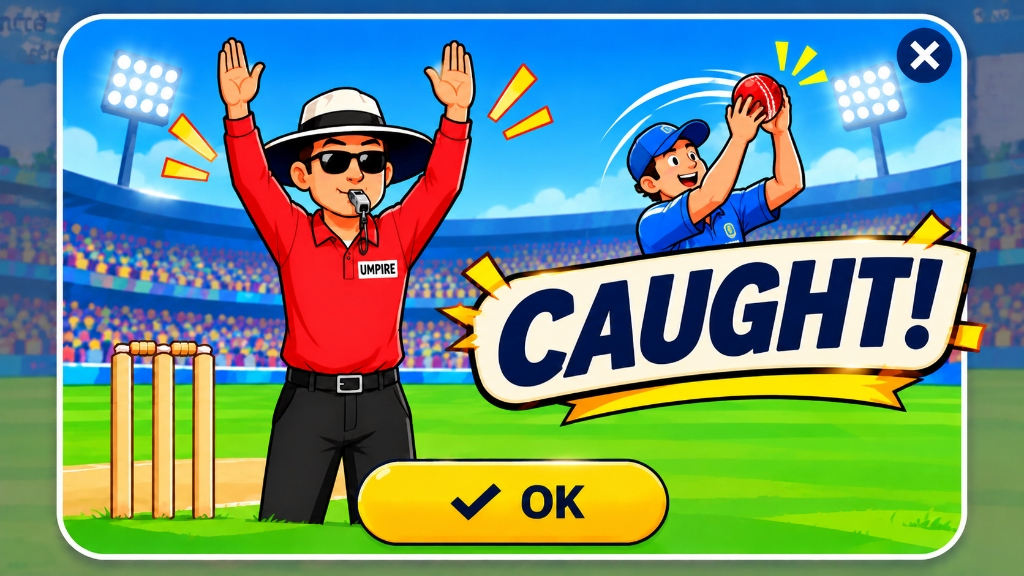
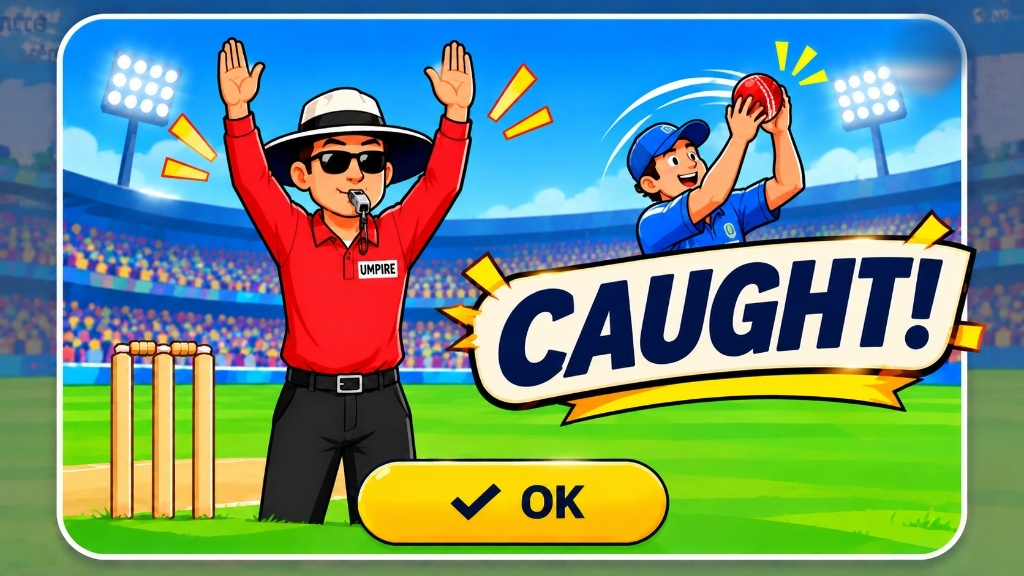
feat(scorer): remove double X marks, dynamic more runs comic badge on running image, and instant edit sync

Changed region(s): [[0.875, 0.0, 0.9688, 0.1875]]

diff --git a/mobile_frontend/src/components/scorer/DeliveryInspectionModal.tsx b/mobile_frontend/src/components/scorer/DeliveryInspectionModal.tsx
@@ -90,13 +90,14 @@ export const DeliveryInspectionModal: React.FC<DeliveryInspectionModalProps> = (
   const isWicket = Boolean(delivery.wicket) || dt === 'W' || dt.includes('W');
   const isSix = runs === 6 || dt === '6';
   const isFour = runs === 4 || dt === '4';
+  const commentaryLower = (delivery.commentary || '').toLowerCase();
+  const isOverthrow = Boolean(delivery.isOverthrow || delivery.is_overthrow || commentaryLower.includes('overthrow'));
+
+  const isMoreRuns = !isWicket && !isWide && !isNoBall && !isOverthrow && runs >= 5 && runs !== 6;
   const isThreeRuns = !isWicket && !isWide && !isNoBall && runs === 3;
   const isTwoRuns = !isWicket && !isWide && !isNoBall && runs === 2;
   const isOneRun = !isWicket && !isWide && !isNoBall && runs === 1;
   const isDotBall = !isWicket && !isWide && !isNoBall && runs === 0 && (delivery.runsExtras || 0) === 0;
-
-  const commentaryLower = (delivery.commentary || '').toLowerCase();
-  const isOverthrow = Boolean(delivery.isOverthrow || delivery.is_overthrow || commentaryLower.includes('overthrow'));
 
   const wicketTypeRaw = String(delivery.wicketType || delivery.wicket_type || '').toUpperCase();
   const isCaught = isWicket && (wicketTypeRaw.includes('CAUGHT') || commentaryLower.includes('caught') || wicketTypeRaw.includes('CT'));
@@ -127,7 +128,7 @@ export const DeliveryInspectionModal: React.FC<DeliveryInspectionModalProps> = (
   let bannerImageSource: any = null;
   let bannerBadgeBg = '#f59e0b';
   let bannerBadgeText = `Ball ${ballText}`;
-  let bannerType: 'CAUGHT' | 'BOWLED' | 'RUN_OUT' | 'STUMPED' | 'LBW' | 'OVERTHROW' | 'DOT' | 'WIDE' | 'SIX' | 'FOUR' | 'NO_BALL' | 'THREE_RUNS' | 'TWO_RUNS' | 'ONE_RUN' | 'RUNS' = 'RUNS';
+  let bannerType: 'CAUGHT' | 'BOWLED' | 'RUN_OUT' | 'STUMPED' | 'LBW' | 'OVERTHROW' | 'DOT' | 'WIDE' | 'SIX' | 'FOUR' | 'NO_BALL' | 'THREE_RUNS' | 'TWO_RUNS' | 'ONE_RUN' | 'MORE_RUNS' | 'RUNS' = 'RUNS';
 
   if (isRunOut) {
     bannerType = 'RUN_OUT';
@@ -169,6 +170,10 @@ export const DeliveryInspectionModal: React.FC<DeliveryInspectionModalProps> = (
     bannerType = 'FOUR';
     bannerImageSource = POPUP_4RUNS;
     bannerBadgeBg = '#059669';
+  } else if (isMoreRuns) {
+    bannerType = 'MORE_RUNS';
+    bannerImageSource = POPUP_1RUN; // Base running image with dynamic overlay
+    bannerBadgeBg = '#7c3aed';
   } else if (isThreeRuns) {
     bannerType = 'THREE_RUNS';
     bannerImageSource = POPUP_3RUNS;
@@ -204,6 +209,12 @@ export const DeliveryInspectionModal: React.FC<DeliveryInspectionModalProps> = (
     subtitleText = `Hit by ${batter} off ${bowler}`;
     whyReason = `Punched past ${sector} with immaculate timing! The ball raced across the outfield and crossed the boundary rope for 4 runs.`;
     tipText = "Tip: 4 runs credited to batter's score; boundary count updated.";
+  } else if (bannerType === 'MORE_RUNS') {
+    iconEmoji = '🏃';
+    titleText = `${runs} Runs – ${runs} RUNS!`;
+    subtitleText = `Brilliant running: ${batter} & ${nonStriker}`;
+    whyReason = `Driven into the deep gap towards ${sector}. Incredible athletic running between the wickets to complete ${runs} runs off the delivery!`;
+    tipText = `Tip: ${runs} runs scored off the bat; strike rotated to ${runs % 2 === 1 ? nonStriker : batter}.`;
   } else if (bannerType === 'SIX') {
     iconEmoji = '🚀';
     titleText = 'Six Runs – MAXIMUM 6!';
@@ -315,6 +326,14 @@ export const DeliveryInspectionModal: React.FC<DeliveryInspectionModalProps> = (
 
             {/* Top Fade Gradient for controls */}
             <View style={styles.bannerTopFadeGradient} />
+
+            {/* Dynamic Comic Ribbon Badge for More Runs (5, 7, 8, 9, 10, 11) */}
+            {isMoreRuns && (
+              <View style={styles.moreRunsComicBadge}>
+                <Text style={styles.moreRunsNumber}>{runs}</Text>
+                <Text style={styles.moreRunsLabel}>RUNS!</Text>
+              </View>
+            )}
 
             {/* Top Left Floating Pill: Ball X.Y */}
             <View style={[styles.headerPill, { backgroundColor: bannerBadgeBg }]}>
@@ -510,16 +529,59 @@ const styles = StyleSheet.create({
     width: 32,
     height: 32,
     borderRadius: 16,
-    backgroundColor: 'rgba(15, 23, 42, 0.75)',
+    backgroundColor: '#0f172a',
     justifyContent: 'center',
     alignItems: 'center',
-    borderWidth: 1.2,
-    borderColor: 'rgba(255, 255, 255, 0.4)'
+    borderWidth: 1.5,
+    borderColor: '#ffffff',
+    zIndex: 99,
+    elevation: 6
   },
   closeCircleBtnText: {
     color: '#ffffff',
     fontSize: 14,
-    fontWeight: '800'
+    fontWeight: '900'
+  },
+
+  // Dynamic Comic Badge for More Runs (5, 7, 8, 9, 10, 11)
+  moreRunsComicBadge: {
+    position: 'absolute',
+    right: 18,
+    bottom: 22,
+    flexDirection: 'row',
+    alignItems: 'baseline',
+    backgroundColor: '#ffffff',
+    borderColor: '#f59e0b',
+    borderWidth: 3.5,
+    borderRadius: 14,
+    paddingHorizontal: 16,
+    paddingVertical: 4,
+    ...Platform.select({
+      web: {
+        boxShadow: '0 4px 12px rgba(0, 0, 0, 0.45)'
+      },
+      default: {
+        elevation: 8,
+        shadowColor: '#000',
+        shadowOffset: { width: 0, height: 4 },
+        shadowOpacity: 0.45,
+        shadowRadius: 6
+      }
+    }),
+    transform: [{ rotate: '-3deg' }]
+  },
+  moreRunsNumber: {
+    fontSize: 40,
+    fontWeight: '900',
+    color: '#dc2626',
+    letterSpacing: -1,
+    marginRight: 6
+  },
+  moreRunsLabel: {
+    fontSize: 26,
+    fontWeight: '900',
+    color: '#0f172a',
+    letterSpacing: 0.5
   },
 
   // Content Body

diff --git a/backend/services/scoringEngine.js b/backend/services/scoringEngine.js
@@ -999,6 +999,55 @@ class ScoringEngine {
     if (updateData.dismissedPlayerId) delivery.dismissed_player_id = updateData.dismissedPlayerId;
     if (typeof updateData.isOverthrow === 'boolean') delivery.is_overthrow = updateData.isOverthrow;
 
+    delivery.boundary_type = (newRunsBatter === 4 ? 'FOUR' : (newRunsBatter === 6 ? 'SIX' : null));
+
+    // Auto-generate fresh commentary matching edited event
+    let newCommentary = '';
+    const shotZone = updateData.shotZone || delivery.shot_zone || 'covers';
+    if (newWicket) {
+      if (newWicketType === 'CAUGHT') {
+        newCommentary = `OUT! Caught by ${delivery.fielder_name || 'Fielder'} off ${delivery.bowler_name || 'Bowler'}.`;
+        delivery.dismissal_text = `c ${delivery.fielder_name || 'Fielder'} b ${delivery.bowler_name || 'Bowler'}`;
+      } else if (newWicketType === 'BOWLED') {
+        newCommentary = `OUT! Clean bowled by ${delivery.bowler_name || 'Bowler'}! Shattered the stumps.`;
+        delivery.dismissal_text = `b ${delivery.bowler_name || 'Bowler'}`;
+      } else if (newWicketType === 'LBW') {
+        newCommentary = `OUT! LBW! Struck on the pads in front of middle stump.`;
+        delivery.dismissal_text = `lbw b ${delivery.bowler_name || 'Bowler'}`;
+      } else if (newWicketType === 'RUN_OUT') {
+        newCommentary = `OUT! Run out (${delivery.fielder_name || 'Fielder'}). Stranded short of crease.`;
+        delivery.dismissal_text = `run out (${delivery.fielder_name || 'Fielder'})`;
+      } else if (newWicketType === 'STUMPED') {
+        newCommentary = `OUT! Stumped by †${delivery.fielder_name || 'Wicketkeeper'} off ${delivery.bowler_name || 'Bowler'}.`;
+        delivery.dismissal_text = `st †${delivery.fielder_name || 'Wicketkeeper'} b ${delivery.bowler_name || 'Bowler'}`;
+      } else {
+        newCommentary = `OUT! Dismissed (${newWicketType}).`;
+        delivery.dismissal_text = `${newWicketType}`;
+      }
+    } else {
+      delivery.dismissal_text = null;
+      if (newExtraType === 'WIDE') {
+        newCommentary = `Wide ball! Bowled outside the tramline. +1 extra run.`;
+      } else if (newExtraType === 'NO_BALL') {
+        newCommentary = `No Ball! Overstepped front foot. +1 extra run and Free Hit awarded!`;
+      } else if (newRunsBatter === 4) {
+        newCommentary = `FOUR! Smacked through ${shotZone} to the boundary rope!`;
+      } else if (newRunsBatter === 6) {
+        newCommentary = `SIX! Massive hit sailing over ${shotZone} deep into the stands!`;
+      } else if (newRunsBatter === 3) {
+        newCommentary = `3 runs. Driven into the deep towards ${shotZone}, great running.`;
+      } else if (newRunsBatter === 2) {
+        newCommentary = `2 runs. Placed into the gap at ${shotZone}, returning quickly for two.`;
+      } else if (newRunsBatter === 1) {
+        newCommentary = `1 run. Tapped towards ${shotZone}, rotating the strike.`;
+      } else if (newRunsBatter === 0) {
+        newCommentary = `Dot ball. Solid block towards ${shotZone}, no run taken.`;
+      } else {
+        newCommentary = `${newTotalRuns} runs taken! Excellent running between the wickets.`;
+      }
+    }
+    delivery.commentary = newCommentary;
+
     // Recalculate legal delivery count and overs if extra type changed
     const oldIsLegal = delivery.extra_type !== 'WIDE' && delivery.extra_type !== 'NO_BALL';
     const newIsLegal = newExtraType !== 'WIDE' && newExtraType !== 'NO_BALL';

diff --git a/mobile_frontend/src/screens/scorer/LiveScoringScreen.tsx b/mobile_frontend/src/screens/scorer/LiveScoringScreen.tsx
@@ -2736,11 +2736,36 @@ export default function LiveScoringScreen() {
         dismissedPlayerId: dismissedId
       };
       await ScorerApi.editDelivery(matchId, editingDelivery.id, payload);
+      
+      const isWkt = Boolean(payload.wicket);
+      const isWd = payload.extraType === 'WIDE';
+      const isNb = payload.extraType === 'NO_BALL';
+      const textVal = isWkt ? 'W' : (isWd ? 'WD' : (isNb ? 'NB' : (payload.runsBatter + (payload.runsExtras || 0))));
+
+      const updatedDel = {
+        ...editingDelivery,
+        runs: payload.runsBatter,
+        runsBatter: payload.runsBatter,
+        runsExtras: payload.runsExtras,
+        totalRuns: payload.runsBatter + (payload.runsExtras || 0),
+        wicket: isWkt,
+        wicketType: payload.wicket ? payload.wicketType : null,
+        wicket_type: payload.wicket ? payload.wicketType : null,
+        extraType: payload.extraType,
+        extra_type: payload.extraType,
+        extra: payload.extraType !== 'NONE' ? payload.extraType : null,
+        shotZone: payload.shotZone,
+        shot_zone: payload.shotZone,
+        fielderName: payload.fielderName,
+        dismissedPlayerId: payload.dismissedPlayerId,
+        text: textVal
+      };
+
+      setRecentDeliveries(prev => prev.map(item => (item.id === editingDelivery.id ? updatedDel : item)));
       setShowEditDeliveryModal(false);
       setEditingDelivery(null);
       await loadLiveState(false);
-      const msg = `Delivery ${editingDelivery.ball} corrected successfully! Scores and figures updated.`;
-      Platform.OS === 'web' ? window.alert(msg) : Alert.alert('Ball Corrected', msg);
+      setInspectingDelivery(updatedDel);
     } catch (err: any) {
       const msg = err.message || 'Failed to update delivery.';
       Platform.OS === 'web' ? window.alert(msg) : Alert.alert('Error', msg);
